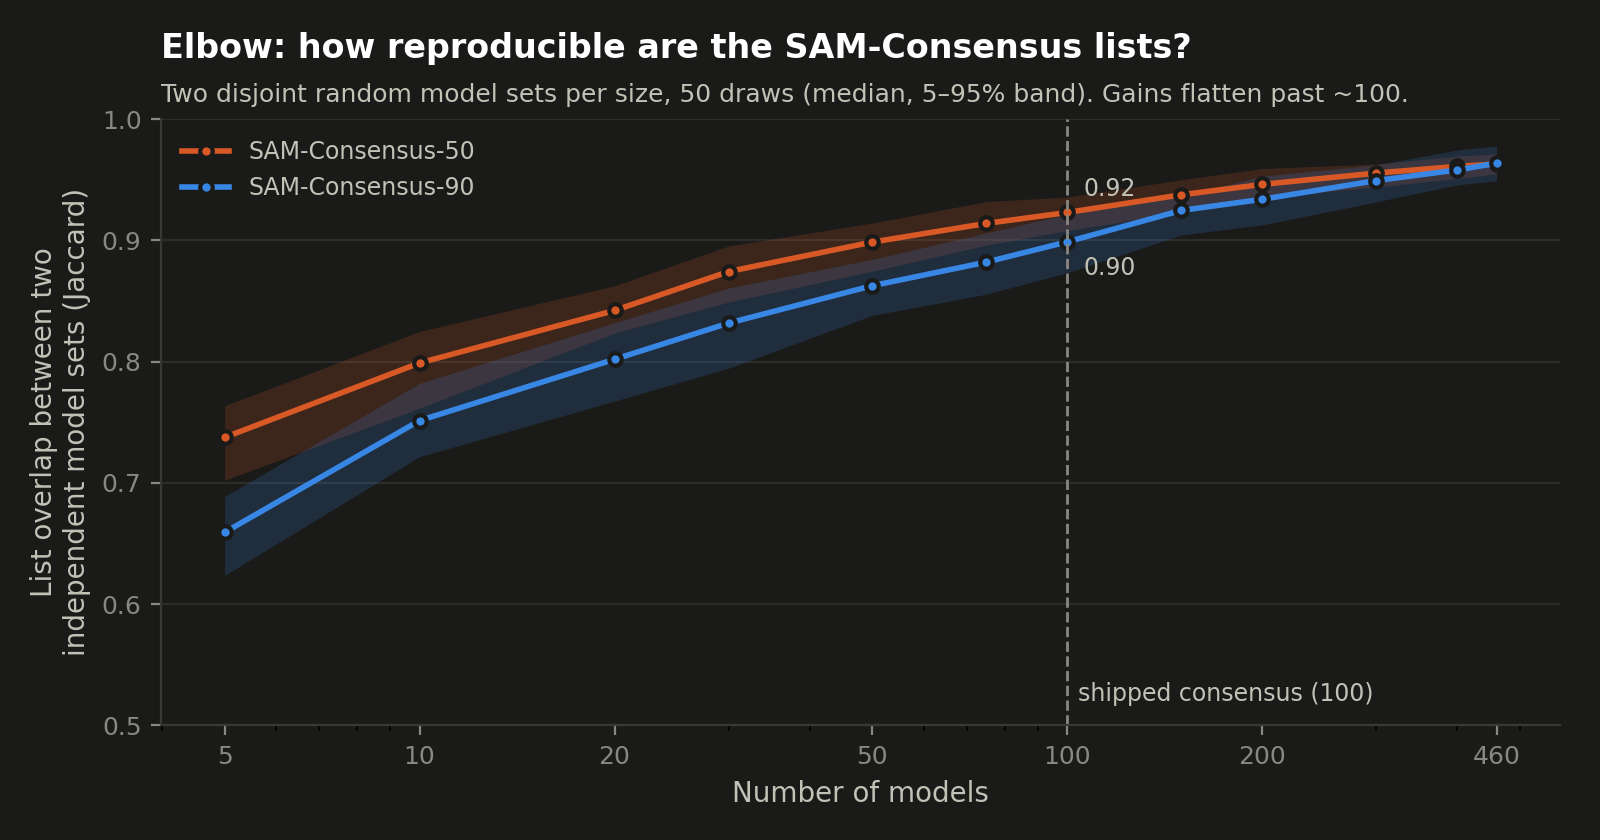
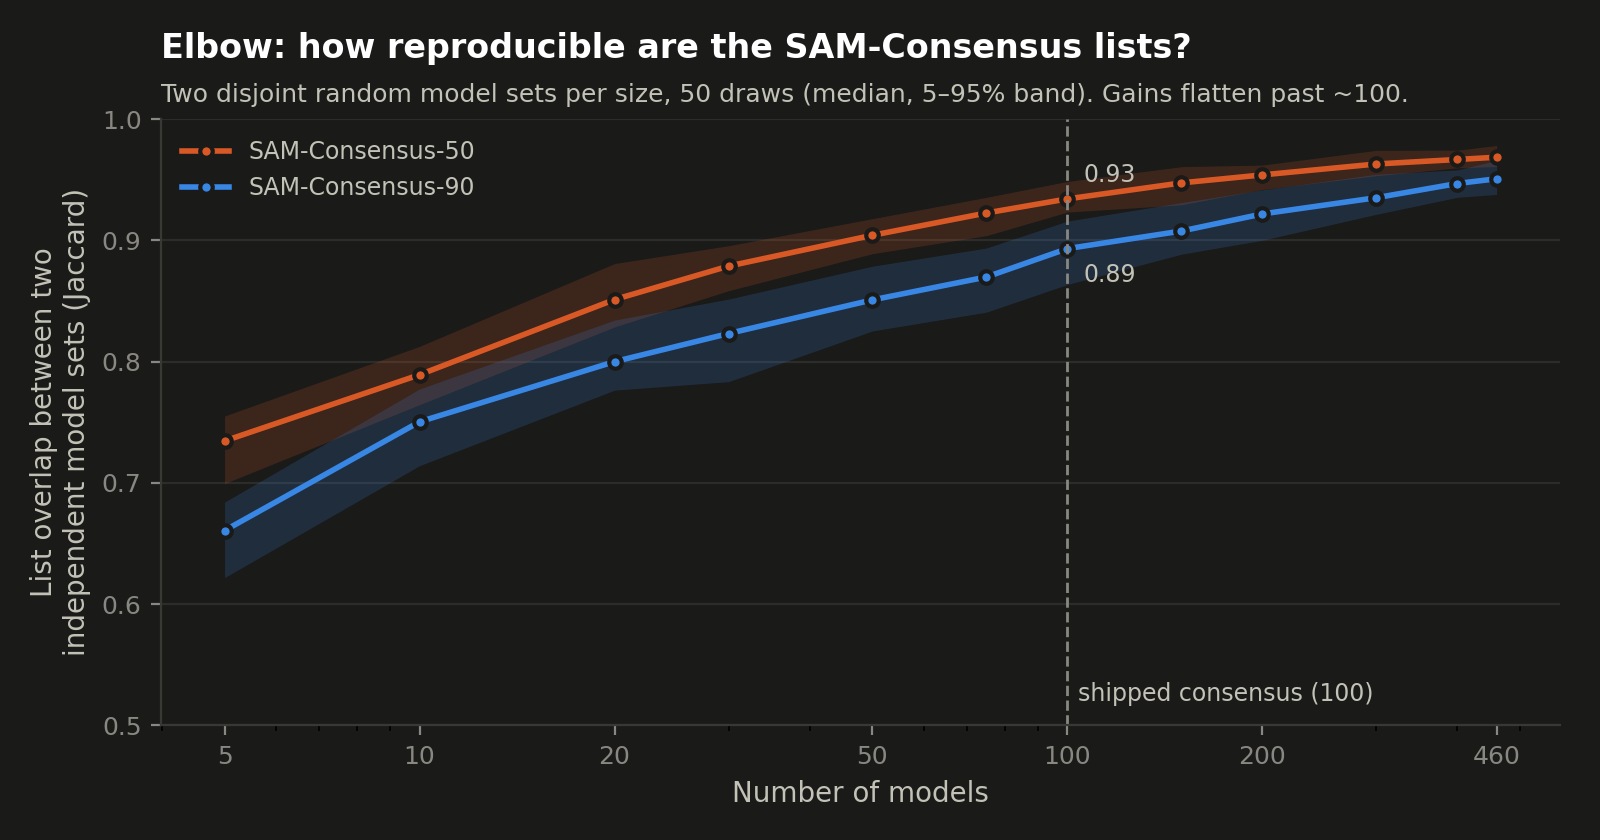
SAM-Consensus v1.2: models built with the updated sequence extraction (v1.2.0)
The SAM-Consensus models were rebuilt with the updated sequence extraction.
New consensus bundle (shortstop_consensus_v1.2.tar.gz) and checksum.
Counts on the 7,152 GENCODE smORFs: SAM 604 (unchanged), SAM-Consensus-50
522, -90 282, -100 126. README, docs/consensus_validation.md, figures and
scripts/consensus_validation updated.

Changed region(s): [[0.125, 0.1548, 0.9375, 0.619], [0.2188, 0.5571, 0.25, 0.5881]]

diff --git a/scripts/consensus_validation/select_models.py b/scripts/consensus_validation/select_models.py
@@ -1,7 +1,8 @@
 """Select the 100 ShortStop consensus models and write consensus_manifest.csv.
 
-model_001 is the published standard model (testing251). testing144 is excluded by the author.
-model_002..model_100 are the next 99 runs by XGBoost macro AUC.
+model_001 is the published standard model, linked into SHORTSTOP_RUNS as testing0 (SHORTSTOP_STANDARD).
+model_002..model_100 are the next 99 runs by XGBoost macro AUC. Runs listed in SHORTSTOP_EXCLUDED
+("run:reason;run:reason") are left out; none are for v1.2.
 Per-model stats are on GENCODE smORF IDs (starting with lowercase "c") with a SAM vote =
 P(intracellular)+P(secreted) > 0.5.
 """
@@ -11,8 +12,8 @@ import pandas as pd
 
 from paths import WORK as AGREE, CONSENSUS as HERE
 os.makedirs(HERE, exist_ok=True)
-STANDARD = "testing251"
-EXCLUDED = {"testing144": "excluded by author (anomaly found on inspection)"}
+STANDARD = os.environ.get("SHORTSTOP_STANDARD", "testing0")
+EXCLUDED = dict(x.split(":", 1) for x in os.environ.get("SHORTSTOP_EXCLUDED", "").split(";") if x)
 N_MODELS = 100
 SAM_PROB = 0.5
 

diff --git a/scripts/consensus_validation/build_bundle.py b/scripts/consensus_validation/build_bundle.py
@@ -1,4 +1,4 @@
-"""Package the 100 consensus models as shortstop_consensus_v1.1.tar.gz (deterministic) + sha256.
+"""Package the 100 consensus models as shortstop_consensus_v1.2.tar.gz (deterministic) + sha256.
 
 Each model_XXX/ holds best_xgb_model.model, scaler.save, and orfs_features_in_train_model.csv
 (header line only, which is all predict mode reads). consensus_manifest.csv sits at the top level.
@@ -12,7 +12,7 @@ import tarfile
 import pandas as pd
 
 from paths import RUNS, CONSENSUS as HERE
-NAME = "shortstop_consensus_v1.1"
+NAME = "shortstop_consensus_v1.2"
 STAGE = f"{HERE}/{NAME}"
 
 manifest = pd.read_csv(f"{HERE}/consensus_manifest.csv")

diff --git a/src/shortstop/consensus.py b/src/shortstop/consensus.py
@@ -13,10 +13,10 @@ import tempfile
 import time
 import urllib.request
 
-CONSENSUS_NAME = "shortstop_consensus_v1.1"
+CONSENSUS_NAME = "shortstop_consensus_v1.2"
 CONSENSUS_URL = ("https://github.com/brendan-miller-salk/ShortStop/releases/download/"
-                f"v1.1.0/{CONSENSUS_NAME}.tar.gz")
[1 lines of base64/hex data omitted]
+                f"v1.2.0/{CONSENSUS_NAME}.tar.gz")
[1 lines of base64/hex data omitted]
 MANIFEST = "consensus_manifest.csv"
 STALE_SECONDS = 6 * 3600  # temporary files older than this are from killed runs
 

diff --git a/scripts/consensus_validation/paths.py b/scripts/consensus_validation/paths.py
@@ -8,4 +8,4 @@ FEATURES = os.environ.get("SHORTSTOP_FEATURES", "extracted_features_of_smorfs.cs
 # where probs.npy, orf_ids.csv, models.csv and model_auc.csv go
 WORK = os.path.abspath(os.environ.get("SHORTSTOP_VALIDATION_WORK", "consensus_validation_work"))
 # consensus model selection, figures and the release bundle
-CONSENSUS = os.path.join(WORK, "consensus_v1.1")
+CONSENSUS = os.path.join(WORK, os.environ.get("SHORTSTOP_CONSENSUS_NAME", "consensus_v1.2"))

diff --git a/setup.py b/setup.py
@@ -33,7 +33,7 @@ tf_dep = 'tensorflow-macos==2.11.0' if system == 'Darwin' else 'tensorflow==2.11
 
 setup(
     name='shortstop',
-    version='1.1.0',
+    version='1.2.0',
     description='ShortStop: A classifier for translated smORFs',
     author='Brendan Miller',
     url='https://github.com/brendan-miller-salk/ShortStop',

diff --git a/docs/consensus_validation.md b/docs/consensus_validation.md
@@ -1,21 +1,23 @@
 # ShortStop SAM-Consensus validation
 
-How the 100 SAM-Consensus models shipped with ShortStop v1.1 were chosen, and how far they agree.
+How the 100 SAM-Consensus models shipped with ShortStop v1.2 were chosen, and how far they agree.
 All numbers are for the 7,152 GENCODE smORFs that ShortStop scored from
 `src/shortstop/demo_data/gencode_smorfs.gtf`.
 
 ## The 100 models
 
-ShortStop was retrained 1,000 times with `shortstop train --n_insilico_smORFs 1000`. Each run drew
-its own random PRISM sample and train/test split. Runs were ranked by the XGBoost macro AUC each
-one measured on its own held-out test split. The 100 consensus models are:
+ShortStop was trained 1,000 times with `shortstop train --n_insilico_smORFs 1000` and the v1.2
+sequence extraction. Each run drew its own random PRISM sample and train/test split. Runs were
+ranked by the XGBoost macro AUC each one measured on its own held-out test split. The 100 consensus
+models are:
 
-- `model_001`: the published standard model;
-- `model_002`–`model_100`: the 99 next-highest replicates by AUC.
+- `model_001`: the published standard model (unchanged);
+- `model_002`–`model_100`: the 99 highest-AUC runs.
 
-Their AUCs range from 0.977 to 0.986. One high-AUC run was excluded after inspection.
-`consensus_manifest.csv`, shipped inside the model bundle, lists every model with its source run,
-AUC, SAM votes on GENCODE smORFs and mean overlap with the other 99.
+Their AUCs range from 0.979 to 0.987. `consensus_manifest.csv`, shipped inside the model bundle,
+lists every model with its source run, AUC, SAM votes on GENCODE smORFs and mean overlap with the
+other 99. The in silico PRISMs each model was trained against are attached to the v1.2.0 release
+(`shortstop_consensus_v1.2_insilico_prisms.tar.gz`).
 
 Each run's AUC comes from a different random test split, so differences of a few thousandths are
 partly split-to-split noise. Selecting by AUC helps only a little (see below).
@@ -33,9 +35,9 @@ percentage is the share of the 100 models voting SAM.
 | Label | Rule | smORFs | Intracellular / secreted | Also SAM (standard) |
 |---|---|---|---|---|
 | SAM | standard model classification | 604 | 570 / 34 | – |
-| SAM-Consensus-50 | > 50% of models | 537 | 509 / 28 | 451 |
-| SAM-Consensus-90 | ≥ 90% of models | 290 | 270 / 20 | 279 |
-| SAM-Consensus-100 | all 100 models | 137 | 125 / 12 | 137 |
+| SAM-Consensus-50 | > 50% of models | 522 | 493 / 29 | 438 |
+| SAM-Consensus-90 | ≥ 90% of models | 282 | 262 / 20 | 269 |
+| SAM-Consensus-100 | all 100 models | 126 | 114 / 12 | 126 |
 
 For the SAM-Consensus labels, intracellular vs secreted is the majority among the SAM-voting
 models; ties go to intracellular (`class_agreement` = 0.5).
@@ -47,15 +49,15 @@ but PRISM is still the single most probable class (for example PRISM 0.45, intra
 secreted 0.25). The reverse never happens.
 
 **How the standard SAMs spread across the levels.** Of the 604 standard-model SAMs:
-- 137 are SAM-Consensus-100;
-- 142 more are -90;
-- 172 more are -50;
-- 153 are not SAM-Consensus-50. These depend on the particular training sample.
+- 126 are SAM-Consensus-100;
+- 143 more are -90;
+- 169 more are -50;
+- 166 are not SAM-Consensus-50. These depend on the particular training sample.
 
-**The reverse case.** 86 smORFs are SAM-Consensus-50 although the standard model classifies them as
+**The reverse case.** 84 smORFs are SAM-Consensus-50 although the standard model classifies them as
 PRISM.
 
-**Localization.** 21 SAM-Consensus-90 smORFs (11 of them SAM-Consensus-100) have under 90% of their
+**Localization.** 23 SAM-Consensus-90 smORFs (9 of them SAM-Consensus-100) have under 90% of their
 SAM-voting models agreeing on intracellular vs secreted (`class_agreement` < 0.9). Treat the
 localization label of those as uncertain.
 
@@ -68,19 +70,19 @@ localization label of those as uncertain.
 
 | Each model votes SAM when P(SAM) > 0.5 | |
 |---|---|
-| SAM votes per model, median (range) | 589 (462–748) |
-| Mean pairwise Jaccard of SAM lists (5–95%) | 0.581 (0.527–0.628) |
-| Fleiss' κ (SAM vs not) | 0.711 |
-| Mean pairwise Spearman of P(SAM) | 0.868 |
+| SAM votes per model, median (range) | 570 (439–832) |
+| Mean pairwise Jaccard of SAM lists (5–95%) | 0.576 (0.524–0.622) |
+| Fleiss' κ (SAM vs not) | 0.707 |
+| Mean pairwise Spearman of P(SAM) | 0.869 |
 
 **How to read these.**
 - **Jaccard** is the size of the overlap between two models' SAM lists divided by the size of their
-  combination. At 0.581, about 74% of one model's SAM votes are also made by another model. The
+  combination. At 0.576, about 73% of one model's SAM votes are also made by another model. The
   rest depend on the particular training sample.
 - **Fleiss' κ** is agreement over all smORFs, corrected for chance. 0.61–0.80 is conventionally
   "substantial".
 - **The two are not independent evidence.** SAMs are rare (~8% of smORFs here), so the two-category
-  κ is close to the Dice overlap 2J / (1 + J) = 0.735.
+  κ is close to the Dice overlap 2J / (1 + J) = 0.731.
 - **The models rank smORFs consistently** (Spearman 0.87). They disagree mainly about smORFs near
   P(SAM) = 0.5. The SAM-Consensus-90 and -100 labels remove that sensitivity by requiring almost
   every model to agree.
@@ -91,10 +93,10 @@ The shipped consensus models compared with 200 random sets of 100 replicate runs
 
 | | Shipped consensus models | Random 100, median [95% range] |
 |---|---|---|
-| Mean pairwise Jaccard | 0.581 | 0.567 [0.560–0.573] |
-| SAM-Consensus-50 | 537 | 529 [510–546] |
-| SAM-Consensus-90 | 290 | 274 [262–284] |
-| SAM-Consensus-100 | 137 | 129 [120–138] |
+| Mean pairwise Jaccard | 0.576 | 0.562 [0.556–0.568] |
+| SAM-Consensus-50 | 522 | 501 [488–512] |
+| SAM-Consensus-90 | 282 | 260 [249–270] |
+| SAM-Consensus-100 | 126 | 117 [109–124] |
 
 Higher-AUC models agree slightly more, which yields somewhat longer SAM-Consensus-90 lists. But
 the labels come mostly from counting how many models agree, not from choosing particular models.
@@ -107,15 +109,15 @@ draws.
 
 | Models per set | SAM-Consensus-50 | SAM-Consensus-90 |
 |---|---|---|
-| 5 | 0.74 (0.70–0.76) | 0.66 (0.62–0.69) |
-| 10 | 0.80 (0.76–0.82) | 0.75 (0.72–0.78) |
-| 30 | 0.87 (0.85–0.90) | 0.83 (0.79–0.86) |
-| 50 | 0.90 (0.87–0.91) | 0.86 (0.84–0.88) |
-| **100** | **0.92 (0.91–0.94)** | **0.90 (0.87–0.92)** |
-| 200 | 0.95 (0.94–0.96) | 0.93 (0.91–0.95) |
-| 460 | 0.96 (0.95–0.97) | 0.96 (0.95–0.98) |
+| 5 | 0.73 (0.70–0.76) | 0.66 (0.62–0.68) |
+| 10 | 0.79 (0.76–0.81) | 0.75 (0.71–0.78) |
+| 30 | 0.88 (0.86–0.90) | 0.82 (0.78–0.85) |
+| 50 | 0.90 (0.89–0.92) | 0.85 (0.83–0.88) |
+| **100** | **0.93 (0.92–0.95)** | **0.89 (0.86–0.92)** |
+| 200 | 0.95 (0.94–0.96) | 0.92 (0.90–0.94) |
+| 460 | 0.97 (0.96–0.98) | 0.95 (0.94–0.97) |
 
-Gains flatten past about 100 models. Doubling to 200 improves the overlap by 0.02–0.04, at twice
+Gains flatten past about 100 models. Doubling to 200 improves the overlap by 0.02–0.03, at twice
 the download size and run time.
 
 <picture>
@@ -152,4 +154,4 @@ the download size and run time.
 
 The scripts are in [`scripts/consensus_validation/`](../scripts/consensus_validation/). They need the
 replicate training-run folders, which are not distributed. Given those, the scripts rebuild the
-bundle byte-for-byte (sha256 `2c027c8d…e76c7a0`).
+bundle byte-for-byte (sha256 `4f77162b…4298e835`).

diff --git a/README.md b/README.md
@@ -3,10 +3,10 @@
 </p>
 
 <p align="center">
-  <a href="https://github.com/brendan-miller-salk/ShortStop/releases/download/v1.1.0/shortstop_v1.1_gencode_smorfs_classifications.csv"><img alt="Download GENCODE smORF classifications (CSV)" src="https://img.shields.io/badge/Download-GENCODE_smORF_classifications_(CSV)-2a78d6?style=for-the-badge"/></a>
+  <a href="https://github.com/brendan-miller-salk/ShortStop/releases/download/v1.2.0/shortstop_v1.2_gencode_smorfs_classifications.csv"><img alt="Download GENCODE smORF classifications (CSV)" src="https://img.shields.io/badge/Download-GENCODE_smORF_classifications_(CSV)-2a78d6?style=for-the-badge"/></a>
 </p>
 <p align="center">
-  ShortStop v1.1 classifications (SAM and SAM-Consensus-50/90/100) of 7,152 GENCODE Ribo-seq ORFs<br/>
+  ShortStop v1.2 classifications (SAM and SAM-Consensus-50/90/100) of 7,152 GENCODE Ribo-seq ORFs<br/>
   from <a href="https://doi.org/10.1038/s41587-022-01369-0">Mudge et al., 2022, <i>Nature Biotechnology</i></a>
 </p>
 
@@ -128,7 +128,7 @@ Classifies smORFs as `SAM:intracellular`, `SAM:secreted`, or `PRISM`
 
 Prediction takes approximately 5-10 minutes per 10,000 smORF sequences. It is recommended to parallelize (e.g., on a cluster) if attempting to classify >1 million sequences.
 
-#### SAM-Consensus (v1.1)
+#### SAM-Consensus (v1.2)
 
 Training ShortStop involves random sampling: which in silico PRISMs are generated, and how the data are split for training and testing. Retraining therefore gives a slightly different SAM list each time. To show how robust each SAM call is, predict mode also scores every smORF with **100 independently trained ShortStop models**. The standard model's classification is unchanged, and the standard model is one of the 100 (`model_001`).
 
@@ -137,41 +137,41 @@ Each consensus model votes SAM when P(SAM) = P(intracellular) + P(secreted) > 0.
 | Label | Rule | GENCODE smORFs (n = 7,152) |
 |---|---|---|
 | **SAM** | standard model classification (unchanged from v1.0) | 604 |
-| **SAM-Consensus-50** | > 50% of the 100 models vote SAM | 537 |
-| **SAM-Consensus-90** | ≥ 90% of models | 290 |
-| **SAM-Consensus-100** | all 100 models | 137 |
+| **SAM-Consensus-50** | > 50% of the 100 models vote SAM | 522 |
+| **SAM-Consensus-90** | ≥ 90% of models | 282 |
+| **SAM-Consensus-100** | all 100 models | 126 |
 
-Per-smORF results for these GENCODE Ribo-seq ORFs ([Mudge et al., 2022](https://doi.org/10.1038/s41587-022-01369-0)) are attached to the v1.1.0 release: [shortstop_v1.1_gencode_smorfs_classifications.csv](https://github.com/brendan-miller-salk/ShortStop/releases/download/v1.1.0/shortstop_v1.1_gencode_smorfs_classifications.csv).
+Per-smORF results for these GENCODE Ribo-seq ORFs ([Mudge et al., 2022](https://doi.org/10.1038/s41587-022-01369-0)) are attached to the v1.2.0 release: [shortstop_v1.2_gencode_smorfs_classifications.csv](https://github.com/brendan-miller-salk/ShortStop/releases/download/v1.2.0/shortstop_v1.2_gencode_smorfs_classifications.csv).
 
-The SAM-Consensus labels are nested: every SAM-Consensus-100 smORF is also -90 and -50. Use SAM-Consensus-90 or -100 when you need the most robust set, such as when choosing candidates for experiments. 451 of the 604 standard SAMs are also SAM-Consensus-50; the other 153 depend on the particular training sample.
+The SAM-Consensus labels are nested: every SAM-Consensus-100 smORF is also -90 and -50. Use SAM-Consensus-90 or -100 when you need the most robust set, such as when choosing candidates for experiments. 438 of the 604 standard SAMs are also SAM-Consensus-50; the other 166 depend on the particular training sample.
 
 <picture>
   <source media="(prefers-color-scheme: dark)" srcset="docs/figures/consensus_levels_dark.png">
   <img alt="Histogram of SAM-Consensus percentage per smORF with the 50, 90 and 100 levels marked" src="docs/figures/consensus_levels_light.png" width="700">
 </picture>
 
-The consensus models (~36 MB) are downloaded and checksum-verified on the first run:
+The consensus models (~37 MB) are downloaded and checksum-verified on the first run:
 
 ```bash
 shortstop predict ... --no_consensus           # standard model only (v1.0 behavior)
 shortstop predict ... --consensus_dir /path    # use or download the bundle here (offline / shared installs)
 ```
 
-**How the 100 models were chosen.** ShortStop was retrained 1,000 times, each time on an independent random PRISM sample and train/test split. The consensus models are the standard model plus the 99 next-highest replicates by XGBoost macro AUC (AUC 0.977–0.986, each measured on that run's own held-out test split).
+**How the 100 models were chosen.** ShortStop was trained 1,000 times with the v1.2 sequence extraction, each time on an independent random PRISM sample and train/test split. The consensus models are the standard model plus the 99 highest of these runs by XGBoost macro AUC (AUC 0.979–0.987, each measured on that run's own held-out test split). The in silico PRISMs each model was trained against are attached to the v1.2.0 release.
 
 <picture>
   <source media="(prefers-color-scheme: dark)" srcset="docs/figures/consensus_auc_dark.png">
   <img alt="Histogram of XGBoost macro AUC across replicate training runs, with the 100 consensus models and the standard model marked" src="docs/figures/consensus_auc_light.png" width="700">
 </picture>
 
-**Why 100 models.** Take two sets of 100 models built from completely separate training runs: their SAM-Consensus-50 lists overlap 92% (Jaccard) and their SAM-Consensus-90 lists 90%. More models add little.
+**Why 100 models.** Take two sets of 100 models built from completely separate training runs: their SAM-Consensus-50 lists overlap 93% (Jaccard) and their SAM-Consensus-90 lists 89%. More models add little.
 
 <picture>
   <source media="(prefers-color-scheme: dark)" srcset="docs/figures/consensus_elbow_dark.png">
   <img alt="SAM-Consensus list reproducibility between two independent model sets versus the number of models, flattening past about 100 models" src="docs/figures/consensus_elbow_light.png" width="700">
 </picture>
 
-**Agreement between individual models.** On GENCODE smORFs, each model votes SAM for a median of 589 smORFs (range 462–748). Any two models' SAM lists overlap by Jaccard 0.581 on average, and Fleiss' κ is 0.711 ("substantial"). The models learn a consistent signal, but a single model's SAM list is only partly reproducible, which is why the SAM-Consensus labels are reported.
+**Agreement between individual models.** On GENCODE smORFs, each model votes SAM for a median of 570 smORFs (range 439–832). Any two models' SAM lists overlap by Jaccard 0.576 on average, and Fleiss' κ is 0.707 ("substantial"). The models learn a consistent signal, but a single model's SAM list is only partly reproducible, which is why the SAM-Consensus labels are reported.
 
 Agreement measures robustness to the training sample, not correctness: all 100 models share the same positive training set and features, so they can be confidently wrong together. Full results are in [docs/consensus_validation.md](docs/consensus_validation.md).
 

diff --git a/scripts/consensus_validation/README.md b/scripts/consensus_validation/README.md
@@ -1,19 +1,23 @@
 # SAM-Consensus validation scripts
 
-These scripts rebuild the ShortStop v1.1 consensus model bundle and the numbers in
+These scripts rebuild the ShortStop v1.2 consensus model bundle and the numbers in
 [docs/consensus_validation.md](../../docs/consensus_validation.md). Run them in the ShortStop
 environment, in this order:
 
 ```bash
-export SHORTSTOP_RUNS=/path/to/MOLCELL_testing_1000_sampling       # testingN/models/ per training run
+export SHORTSTOP_RUNS=/path/to/runs                                  # testingN/ training runs; the standard model linked as testing0
 export SHORTSTOP_FEATURES=/path/to/extracted_features_of_smorfs.csv  # features of the smORFs to score
 export SHORTSTOP_VALIDATION_WORK=/path/to/work                       # outputs
 
 python predict_all_models.py           # score every run's XGBoost model -> probs.npy, model_auc.csv
-python select_models.py                # pick the 100 -> consensus_v1.1/consensus_manifest.csv
+python select_models.py                # pick the 100 -> consensus_v1.2/consensus_manifest.csv
 python consensus_figures.py            # figures, label_stats.csv, agreement_stats.csv, elbow.csv, random_comparison.csv
-python build_bundle.py                 # shortstop_consensus_v1.1.tar.gz + .sha256
+python build_bundle.py                 # shortstop_consensus_v1.2.tar.gz + .sha256
 ```
+
+`select_models.py` takes the standard model from `SHORTSTOP_STANDARD` (default `testing0`) and leaves
+out any runs listed in `SHORTSTOP_EXCLUDED` (`run:reason;run:reason`, default none).
+`SHORTSTOP_CONSENSUS_NAME` changes the output folder name (default `consensus_v1.2`).
 
 `predict_all_models.py` uses about 700 MB of memory and takes about 15 minutes for ~1,000 models on
 ~7,000 smORFs. The other scripts take a few minutes in total.
